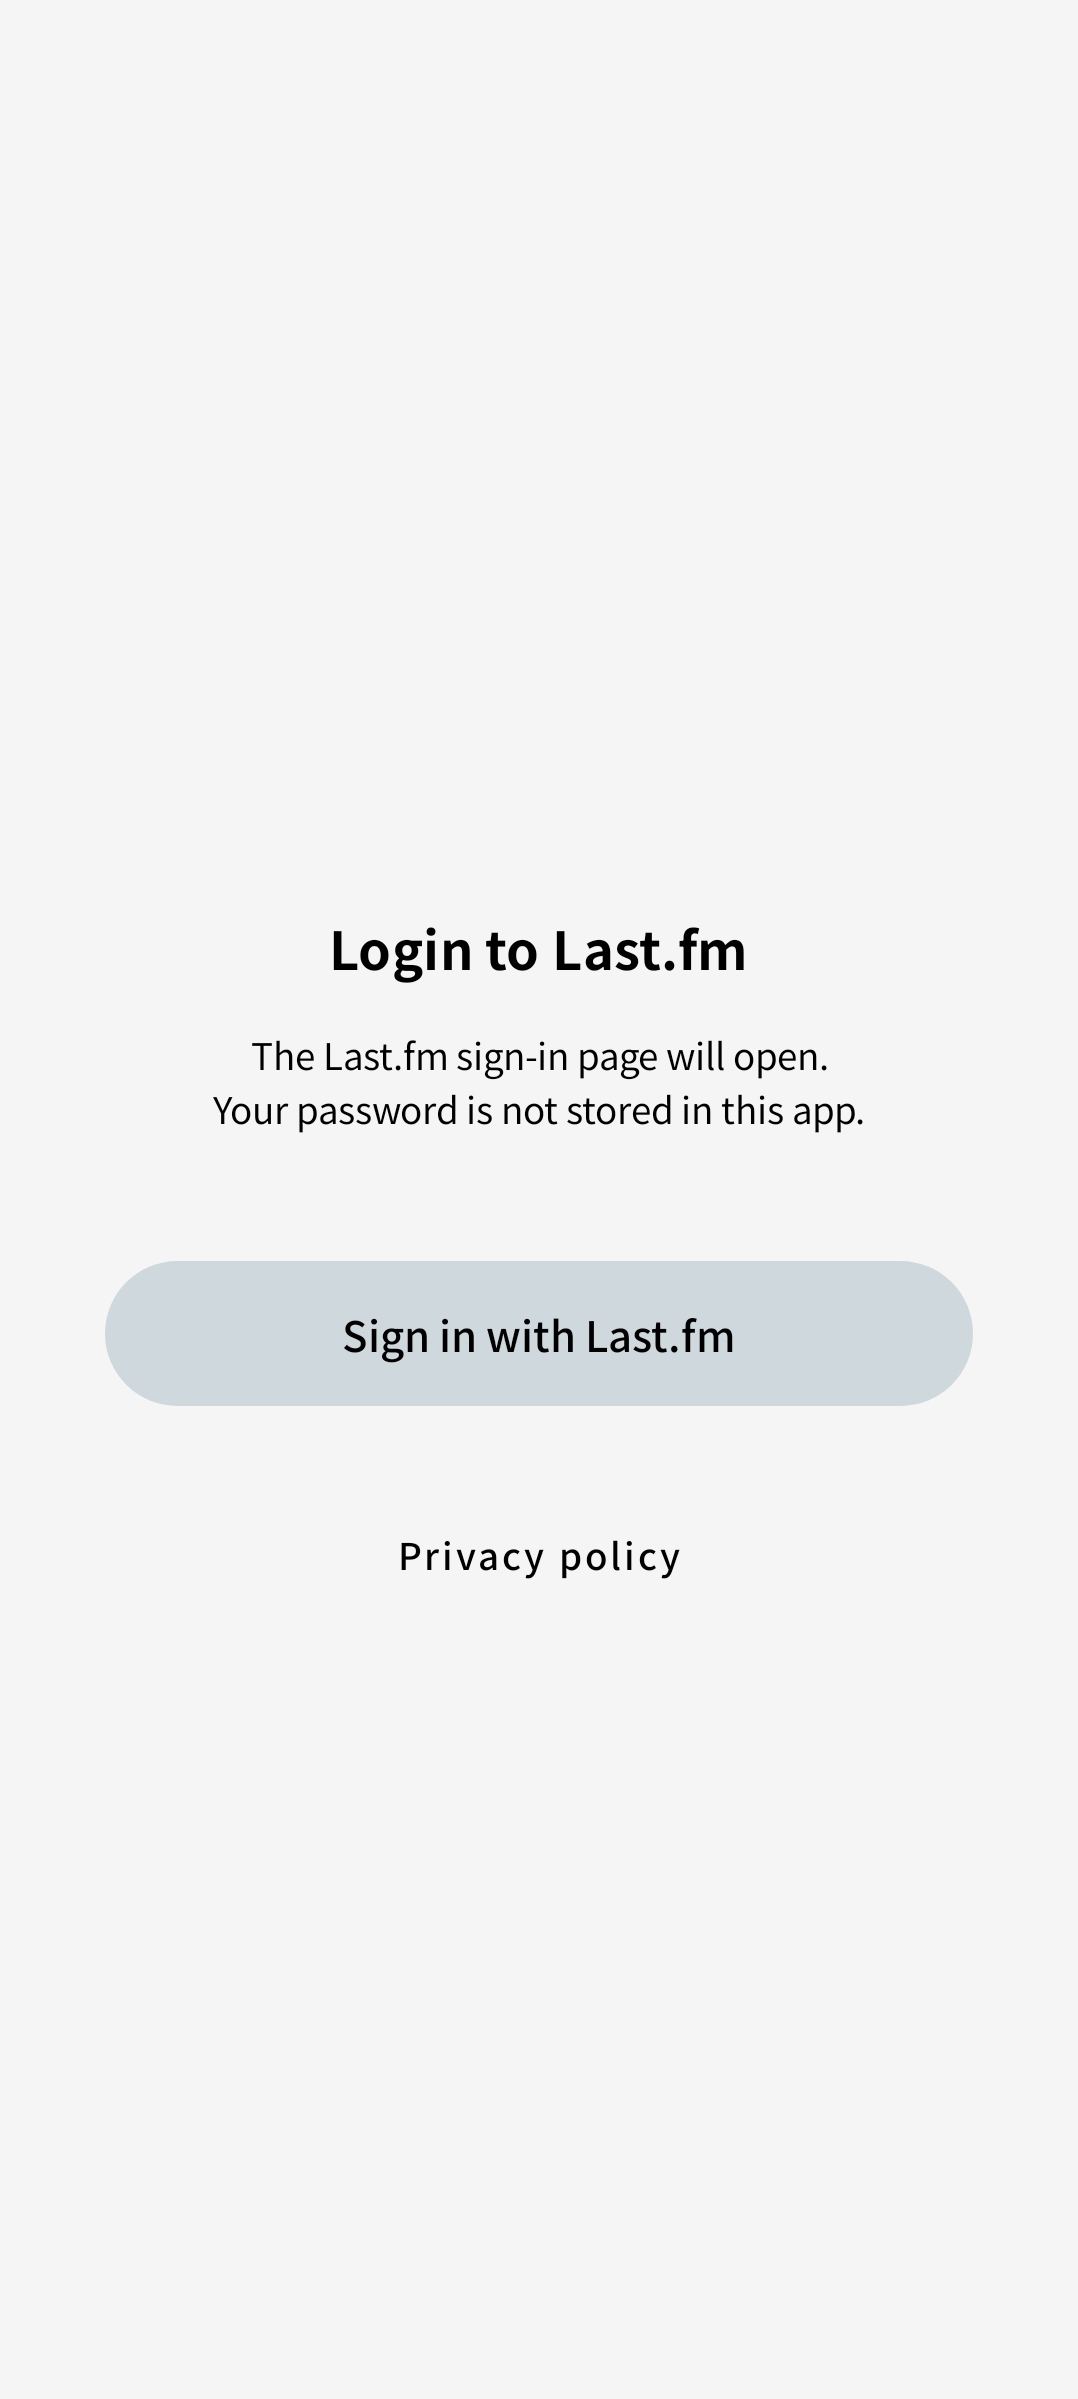
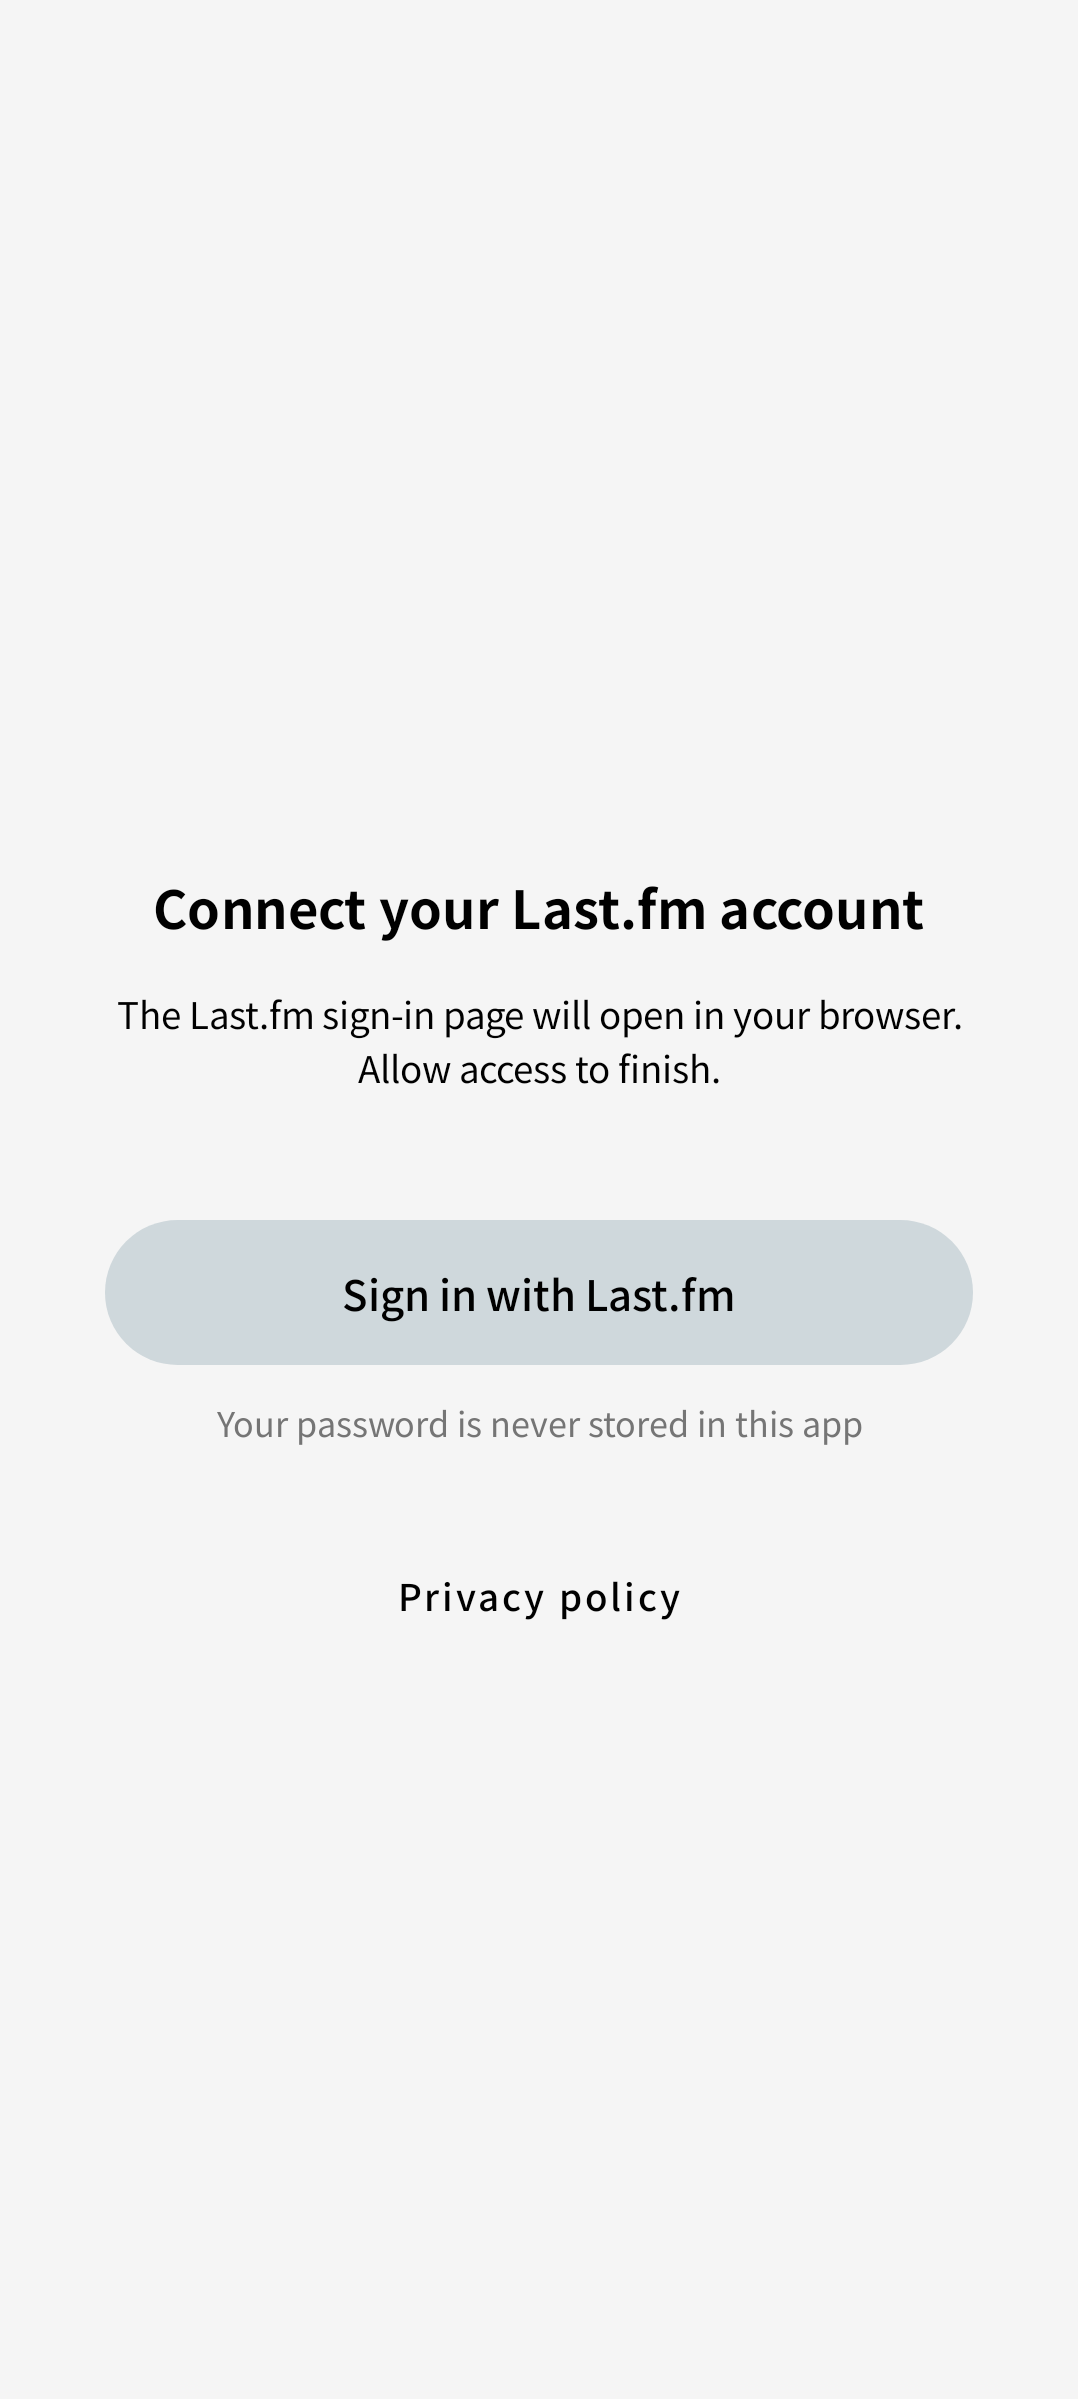
feat(auth): reframe LoginScreen copy around connecting a Last.fm account
- Title LoginScreen "Connect your Last.fm account" (ja: "Last.fm アカウント
  を連携") via a new web_auth_title string in :feature:auth instead of
  ui_common's login_to_last_fm, matching the "Connect application" page
  Last.fm shows next.
- Shorten web_auth_description to what happens on tap: the sign-in page
  opens in the browser and allowing access finishes the flow.
- Move the "password is never stored" reassurance out of the description
  into a Caption directly under the sign-in button.
- Replace the hardcoded "Sign in with Last.fm" and "Privacy policy"
  labels with web_auth_sign_in and web_auth_privacy_policy, adding
  Japanese translations for both.
- Re-record the login goldens.

Changed region(s): [[0.0918, 0.3702, 0.9184, 0.6169], [0.3673, 0.6478, 0.6429, 0.6786]]

diff --git a/feature/auth/src/main/java/com/mataku/scrobscrob/auth/ui/screen/LoginScreen.kt b/feature/auth/src/main/java/com/mataku/scrobscrob/auth/ui/screen/LoginScreen.kt
@@ -41,9 +41,9 @@ import com.mataku.scrobscrob.ui_common.component.designsystem.SunsetTextButton
 import com.mataku.scrobscrob.ui_common.style.LocalAppTheme
 import com.mataku.scrobscrob.ui_common.style.LocalSnackbarHostState
 import com.mataku.scrobscrob.ui_common.style.SunsetThemePreview
+import com.mataku.scrobscrob.ui_common.style.onSecondaryColor
 import com.mataku.scrobscrob.ui_common.style.onSurfaceColor
 import kotlinx.coroutines.launch
-import com.mataku.scrobscrob.ui_common.R as uiCommonR
 
 @Composable
 internal fun LoginScreen(
@@ -114,7 +114,7 @@ private fun LoginContent(
       Spacer(modifier = Modifier.height(24.dp))
 
       SunsetText.Title(
-        text = stringResource(id = uiCommonR.string.login_to_last_fm),
+        text = stringResource(id = R.string.web_auth_title),
         fontWeight = FontWeight.Bold,
         modifier = Modifier.align(Alignment.CenterHorizontally),
         color = LocalAppTheme.current.onSurfaceColor(),
@@ -146,16 +146,24 @@ private fun LoginContent(
           )
         } else {
           SunsetText.Body(
-            text = "Sign in with Last.fm",
+            text = stringResource(id = R.string.web_auth_sign_in),
             fontWeight = FontWeight.Medium,
           )
         }
       }
 
+      Spacer(modifier = Modifier.height(12.dp))
+
+      SunsetText.Caption(
+        text = stringResource(id = R.string.web_auth_password_notice),
+        color = LocalAppTheme.current.onSecondaryColor(),
+        textAlign = TextAlign.Center,
+      )
+
       Spacer(modifier = Modifier.height(32.dp))
 
       SunsetTextButton.Label(
-        text = "Privacy policy",
+        text = stringResource(id = R.string.web_auth_privacy_policy),
         onClick = onPrivacyPolicyTap,
         color = LocalAppTheme.current.onSurfaceColor(),
       )
